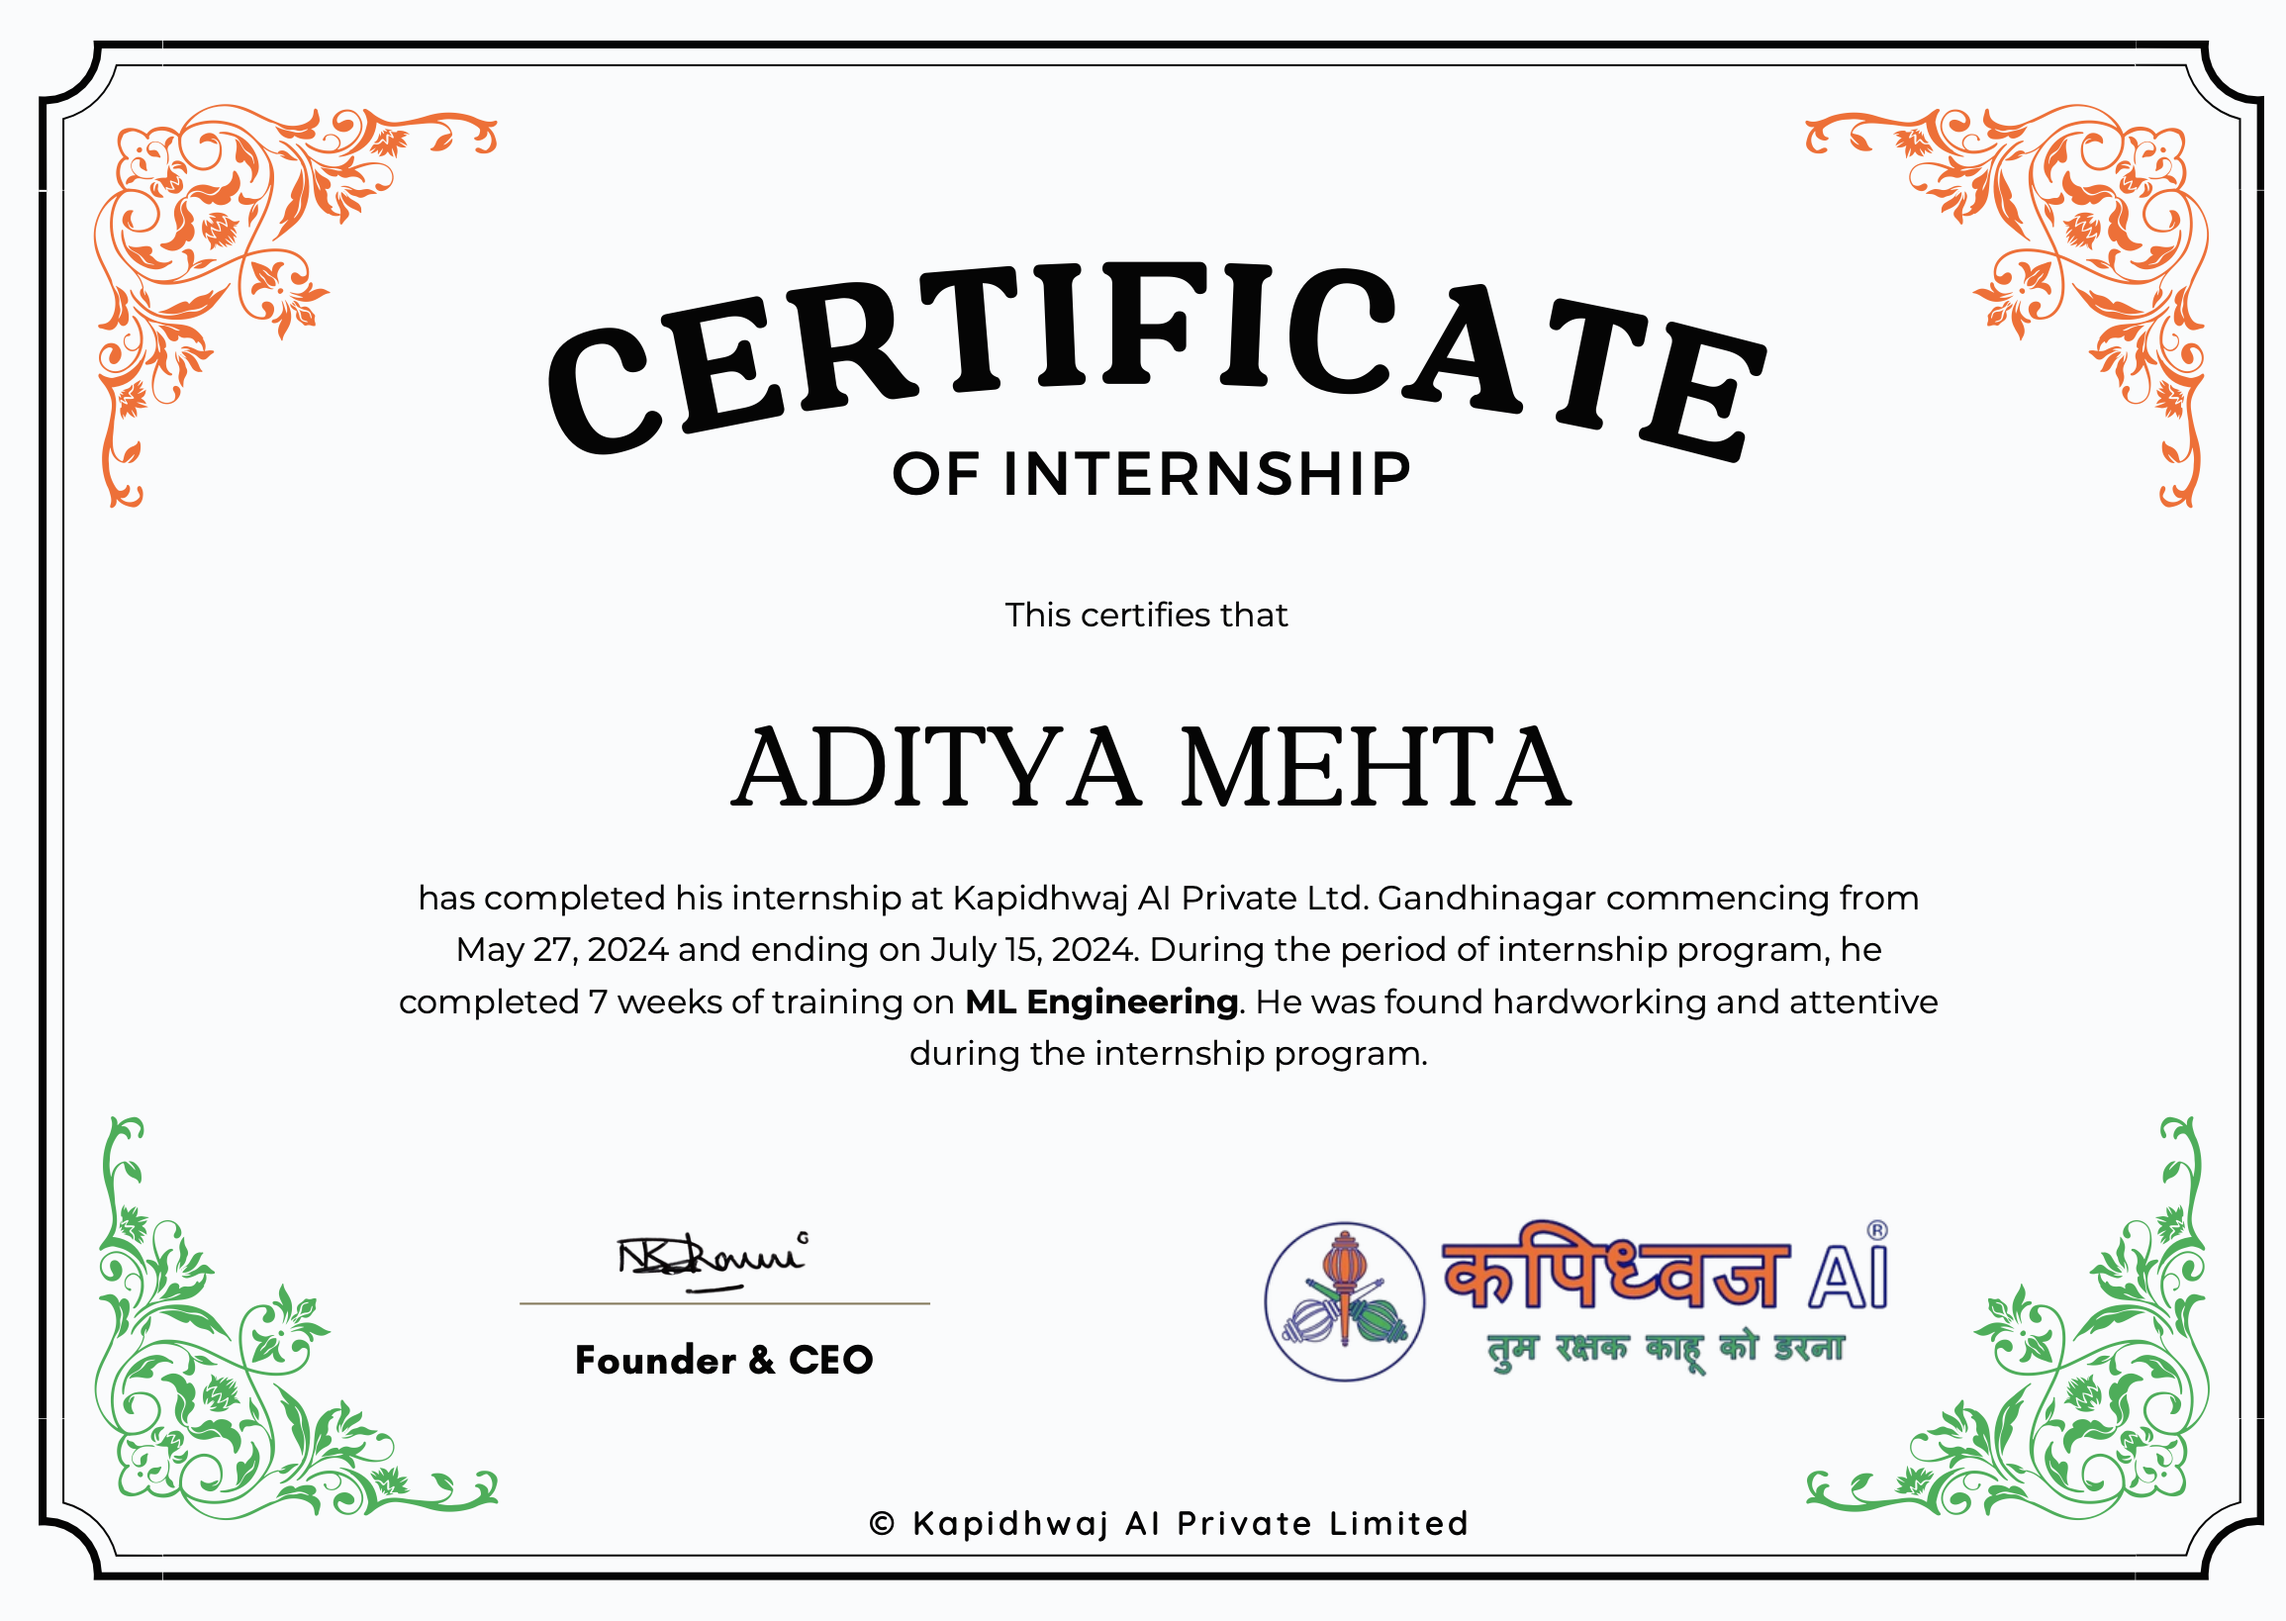
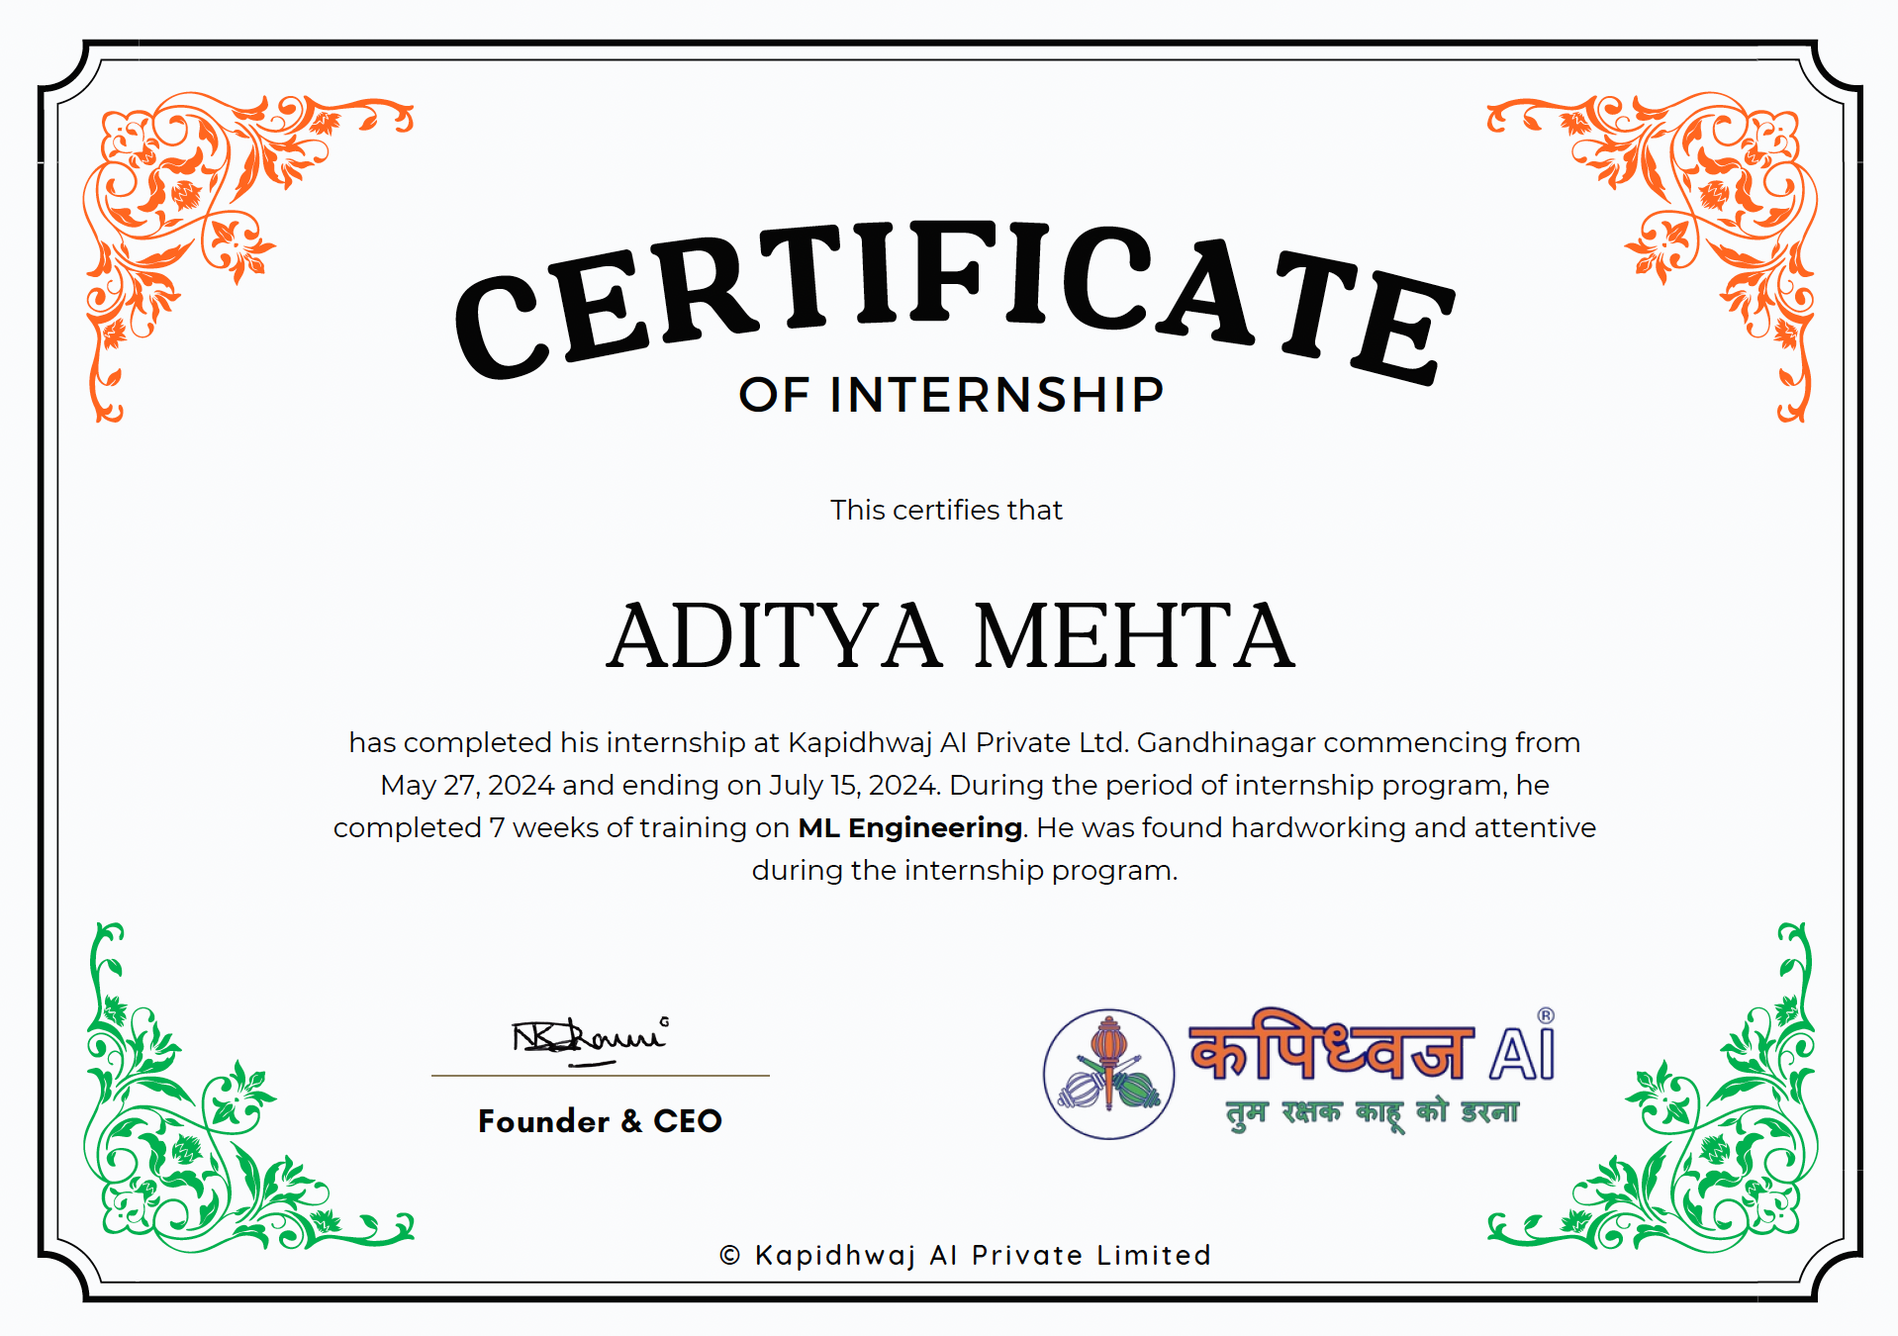
Updates 13th Nov

diff --git a/_pages/Achievements.md b/_pages/Achievements.md
@@ -29,7 +29,7 @@ Schilarships and Certifications:
 =====
 * Awarded **Acharya Ekkirala Bharadwaja Scholarship** of Rs. 1 Lakh for excellent Academic Performance and Exemplary Potential for Academic Year 2023-24. [Website](https://iitgn.ac.in/students/scholarships/Acharya-Ekkirala-Bharadwaja-Scholarship)
 * Certified **Associate Google Cloud Engineer**, proficient in GCP services and best practices by Udemy. [Certificate](https://www.udemy.com/certificate/UC-b5a53396-ff92-4d48-aa8f-d44e43540f34/)
-* Successfully completed an internship at Kapidhwaj AI and received certification as an AI-ML Engineer. [Certificate](/files/AdityaMehtaCertificate.pdf)
+* Successfully completed an internship at Kapidhwaj AI and received certification as an AI-ML Engineer. [Certificate](/files/CertificateKapidhwaj.png)
 
 Skills
 ======

diff --git a/_pages/Contact.md b/_pages/Contact.md
@@ -24,5 +24,4 @@ redirect_from:
 
 </center>
 
-  
-  
+The best way to reach out to me is to email me at **[aditya.mehta@iitgn.ac.in](mailto:aditya.mehta@iitgn.ac.in)** or **[mehtaaditya1307@gmail.com](mailto:mehtaaditya1307@gmail.com)**
